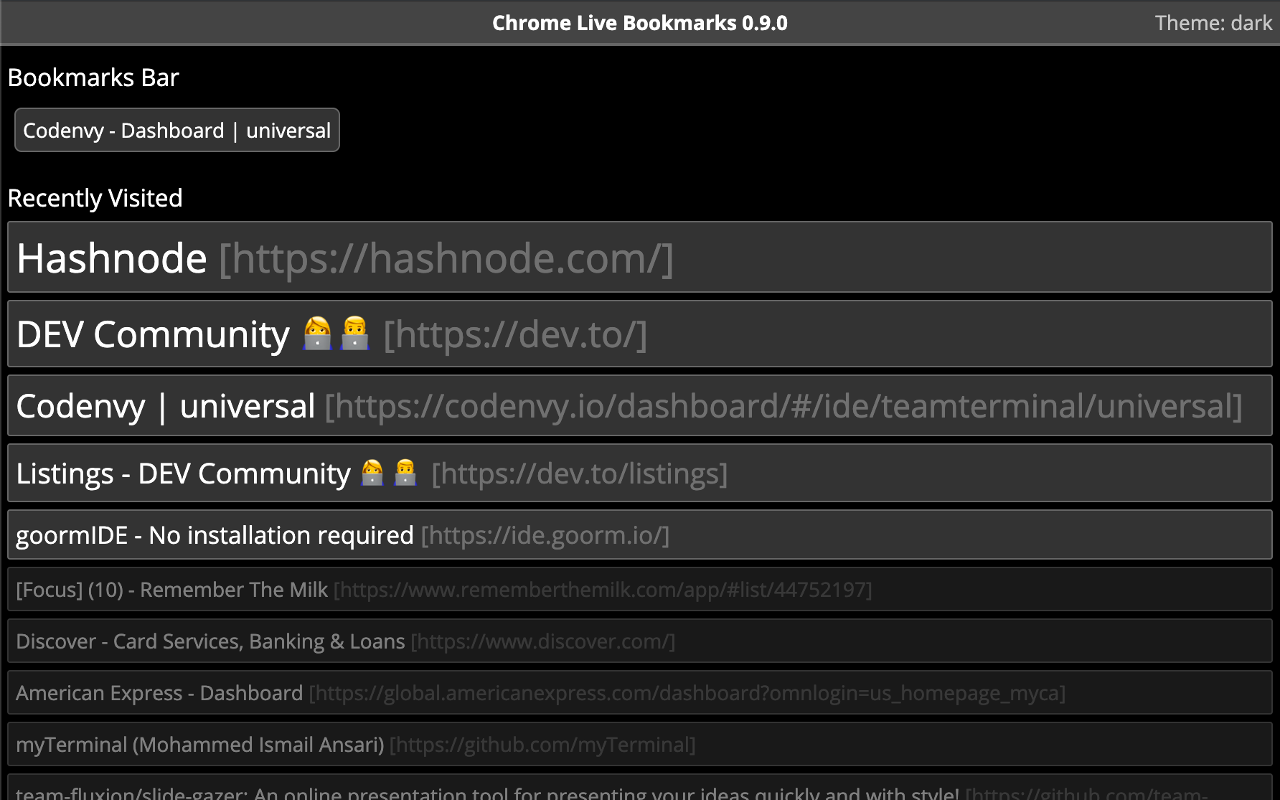
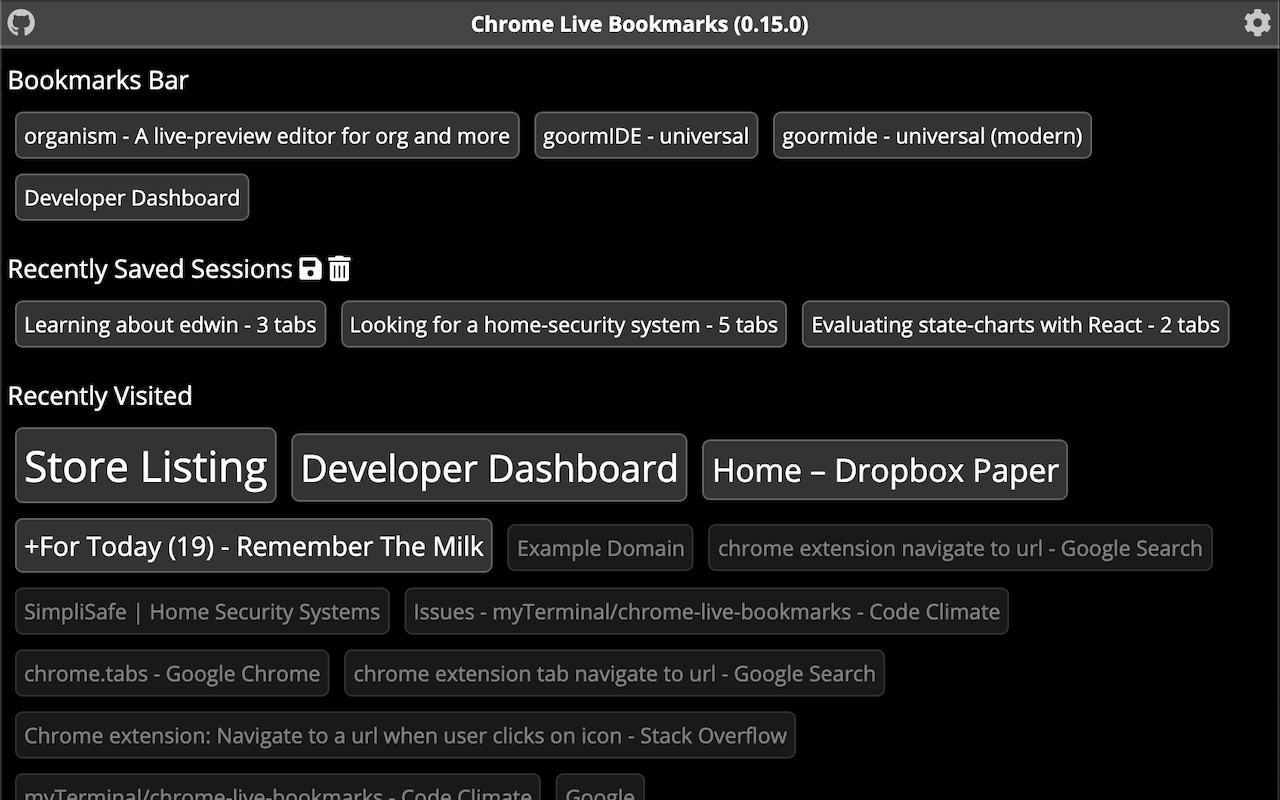
update README.md and screenshot

diff --git a/README.md b/README.md
@@ -18,11 +18,13 @@ You can install it from the [Chrome Web Store](https://chrome.google.com/webstor
 ## Features
 
 * Replaces the default 'New Tab' page with an opinionatedly better implementation that combines bookmarks with history
+* Allows user to save and restore browser sessions (across computers)
 * Supports light and dark color-themes
 * More to come...
 
 ## To-do
 
+* Detect auto-update and inform user about the change
 * Also show bookmarks that are not on the bookmarks bar
-* Add option to modify the list
+* Add option to modify the list items
 * Improve visuals
